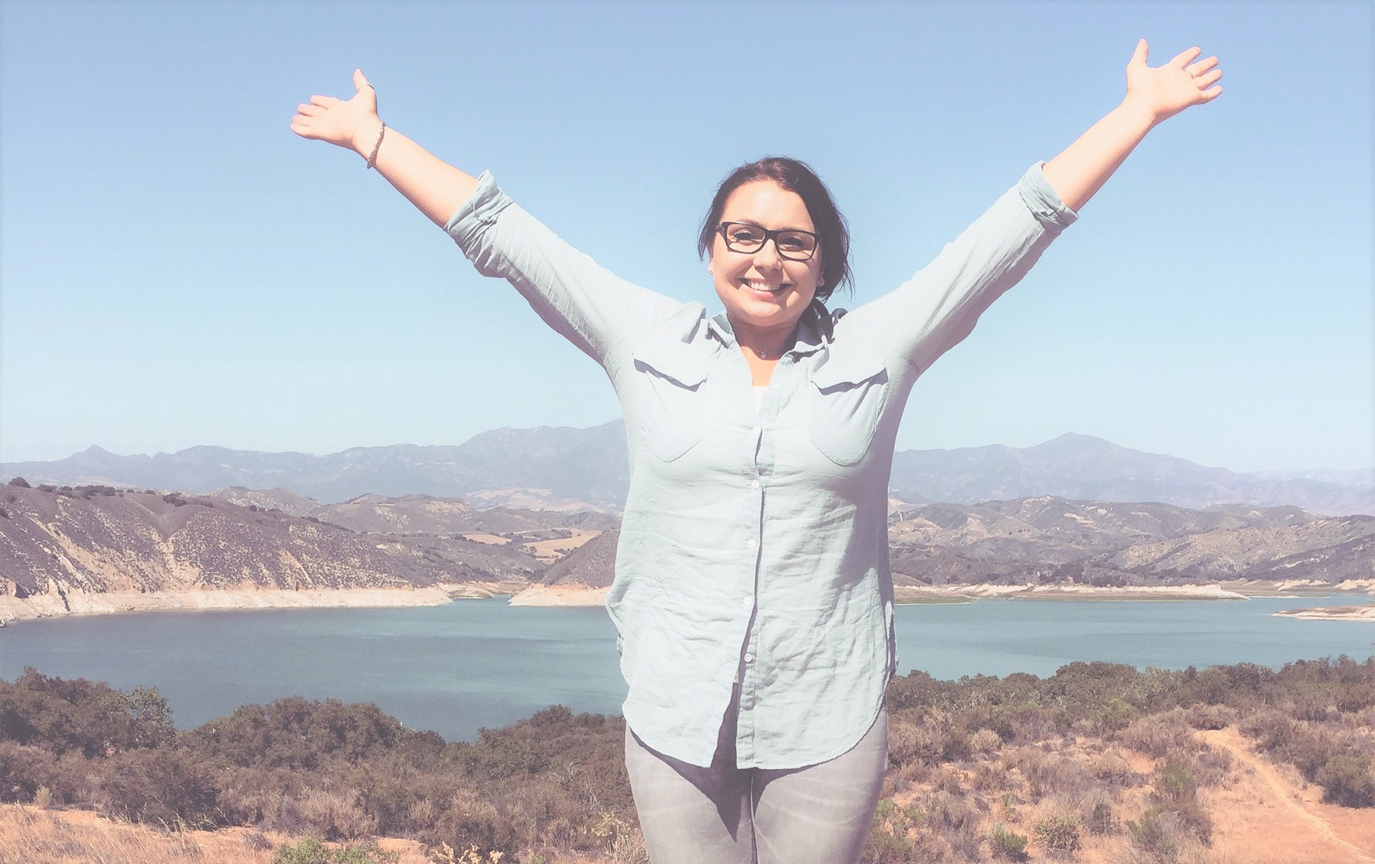
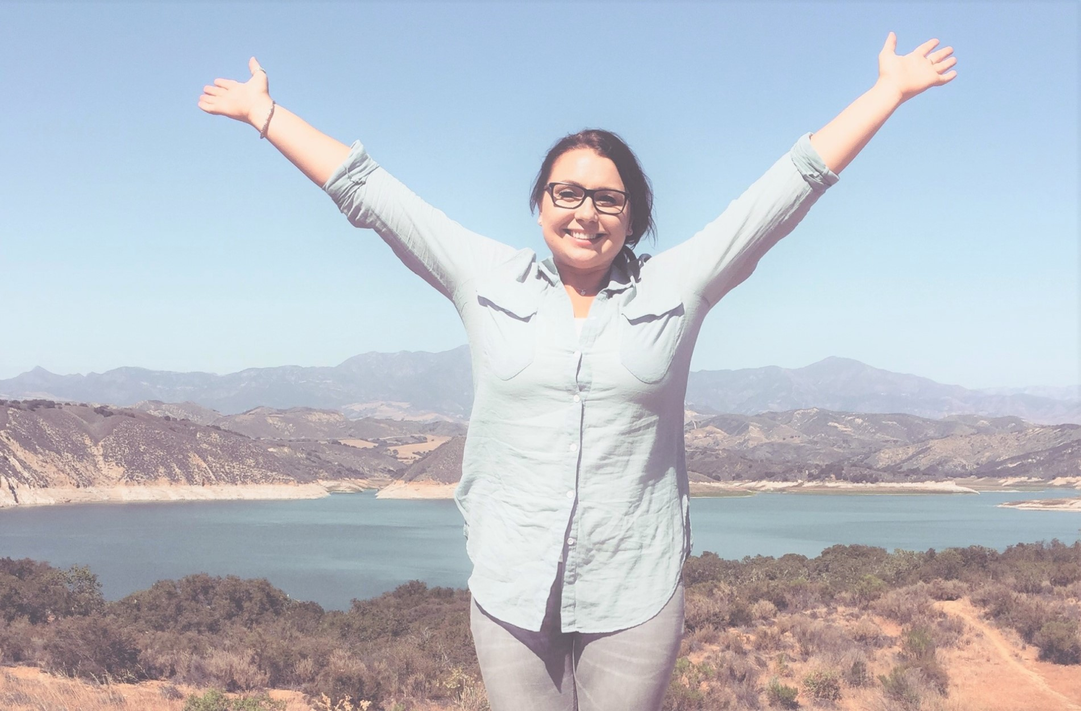
resized opening background image, deleted some template images, updated some content in about me section

diff --git a/index.html b/index.html
@@ -22,7 +22,6 @@
 
   <!-- Custom styles for this template -->
   <link href="css/agency.css" rel="stylesheet">
-  <link href="css/freelancer.css" rel="stylesheet">
   <link href="https://fonts.googleapis.com/css?family=Quicksand&display=swap" rel="stylesheet">
 
 </head>
@@ -63,10 +62,8 @@
   <header class="masthead">
     <div class="container">
       <div class="intro-text">
-        <!-- <img class="masthead-avatar mb-5" src="img/profile_pic.jpg" alt=""> -->
         <div class="intro-heading text-uppercase">Hello</div>
         <div class="intro-lead-in">My name is Kat. I'm a front-end web developer and project manager living and working in beautiful Seattle, Washington. Come see what I can do!</div>
-        <!-- <a class="btn btn-primary btn-xl text-uppercase js-scroll-trigger" href="#services">Tell Me More</a> -->
       </div>
     </div>
   </header>
@@ -231,7 +228,7 @@
                   <h4 class="subheading">Education</h4>
                 </div>
                 <div class="timeline-body">
-                  <p class="text-muted">I completed my Bachelor's degree in Intercultural Communication at Florida Atlantic University in Boca Raton, Florida and in 2015, I decided it was time for a change and I moved across the U.S. to my current home, the quirky and beautiful city of Seattle.</p>
+                  <p class="text-muted">I completed my Intercultural Communication Bachelor's Degree program at Florida Atlantic University in Boca Raton, Florida. In 2015, I decided it was time for a change and I moved across the U.S. to my current home, the quirky and beautiful city of Seattle.</p>
                 </div>
               </div>
             </li>
@@ -257,7 +254,7 @@
                   <h4 class="subheading">Becoming a Web Developer</h4>
                 </div>
                 <div class="timeline-body">
-                  <p class="text-muted">In 2018, I enrolled in the Web Development Certificate program at Seattle University. Over the past year, I've been studying the various technologies that have allowed me to exercise my creativity and create multiple websites. I will be graduating in August 2019 and excited to continue developing.</p>
+                  <p class="text-muted">In 2018, I enrolled in the Web Development Certificate program at Seattle University. Over the past year, I've been studying the various technologies that have allowed me to exercise my creativity and create multiple websites. I specialize in front-end JavaScript, Node.js and single page application websites using the Vue.js framework, as well as WordPress. I will be graduating in August 2019 and excited to continue learning and developing.</p>
                 </div>
               </div>
             </li>
@@ -282,7 +279,6 @@
       <div class="row">
         <div class="col-lg-12 text-center">
           <h2 class="section-heading text-uppercase">Let's Connect!</h2>
-          <h3 class="section-subheading text-muted">Lorem ipsum dolor sit amet consectetur.</h3>
         </div>
       </div>
         <div class="col-sm-12">
@@ -311,7 +307,7 @@
         </div>
       <div class="row">
         <div class="col-lg-8 mx-auto text-center">
-          <p class="large text-muted">Lorem ipsum dolor sit amet, consectetur adipisicing elit. Aut eaque, laboriosam veritatis, quos non quis ad perspiciatis, totam corporis ea, alias ut unde.</p>
+          <p class="large text-muted">I look forward to working with you!</p>
         </div>
       </div>
     </div>
